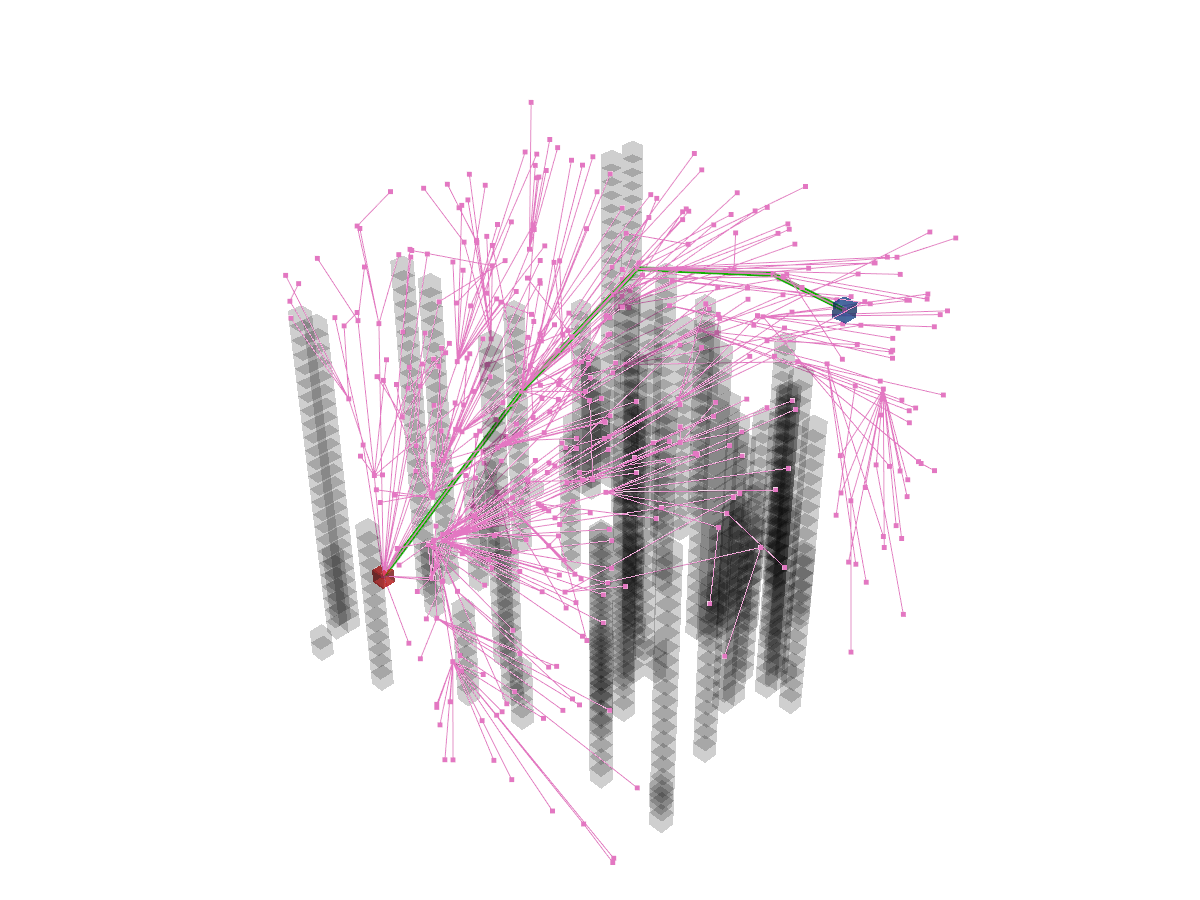
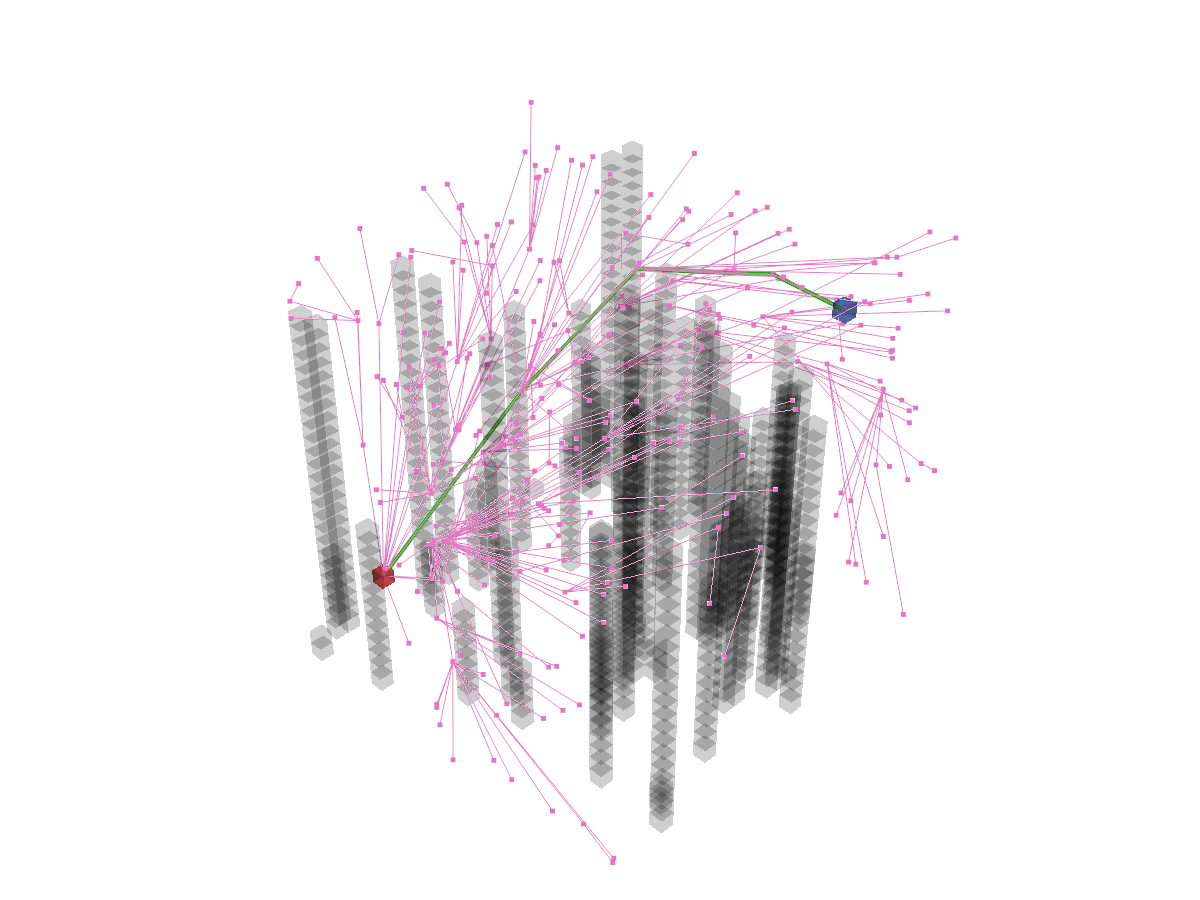
v2.0

diff --git a/tutorials/3d/path_planner/sample_search.md b/tutorials/3d/path_planner/sample_search.md
@@ -78,7 +78,7 @@ Print results:
 For asymptoticaly optimal sample search planners like **RRT\***, you can pass a callable function to argument `stop_func` to determine when to stop sampling. For example:
 
 ```python
-RRTStar(map_=map_, start=start, goal=goal, stop_func=lambda cur, fss, mss: (cur >= fss * 10 if fss is not None else False) or (cur >= mss))
+planner = RRTStar(map_=map_, start=start, goal=goal, stop_func=lambda cur, fss, mss: (cur >= fss * 10 if fss is not None else False) or (cur >= mss))
 ```
 
 For the arguments of `stop_func`, `cur` means the **cur**rent step iteration, `fss` means the **f**irst **s**uccessful **s**tep to find the feasible path, and `mss` means the **m**aximum **s**ampling **s**tep number determined by `max_sample_step` argument. This lambda function means to stop sampling when the number of sampling steps reaches 10 times the number of steps successfully found a feasible path for the first time.
